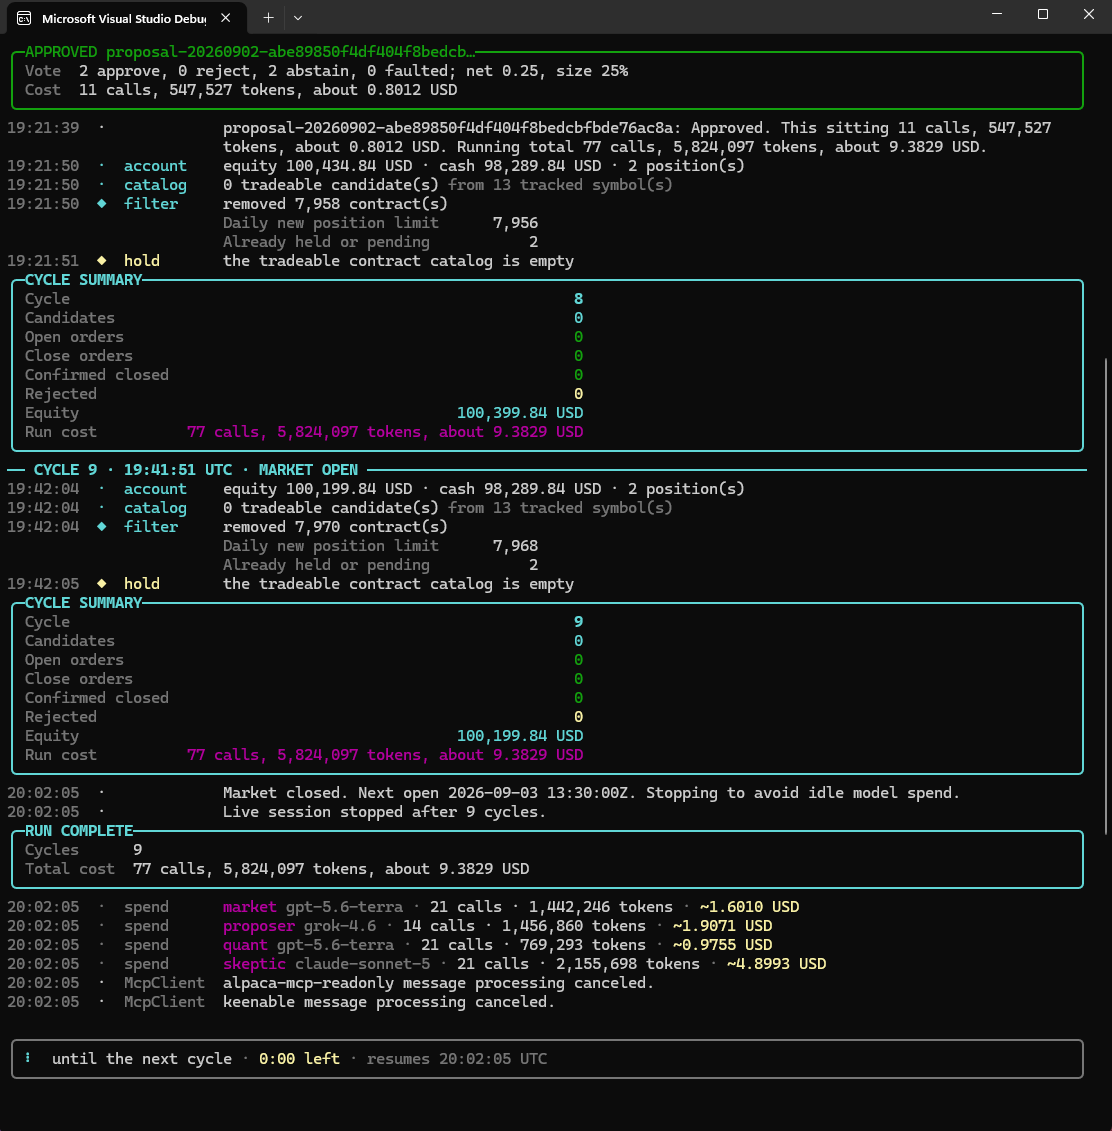
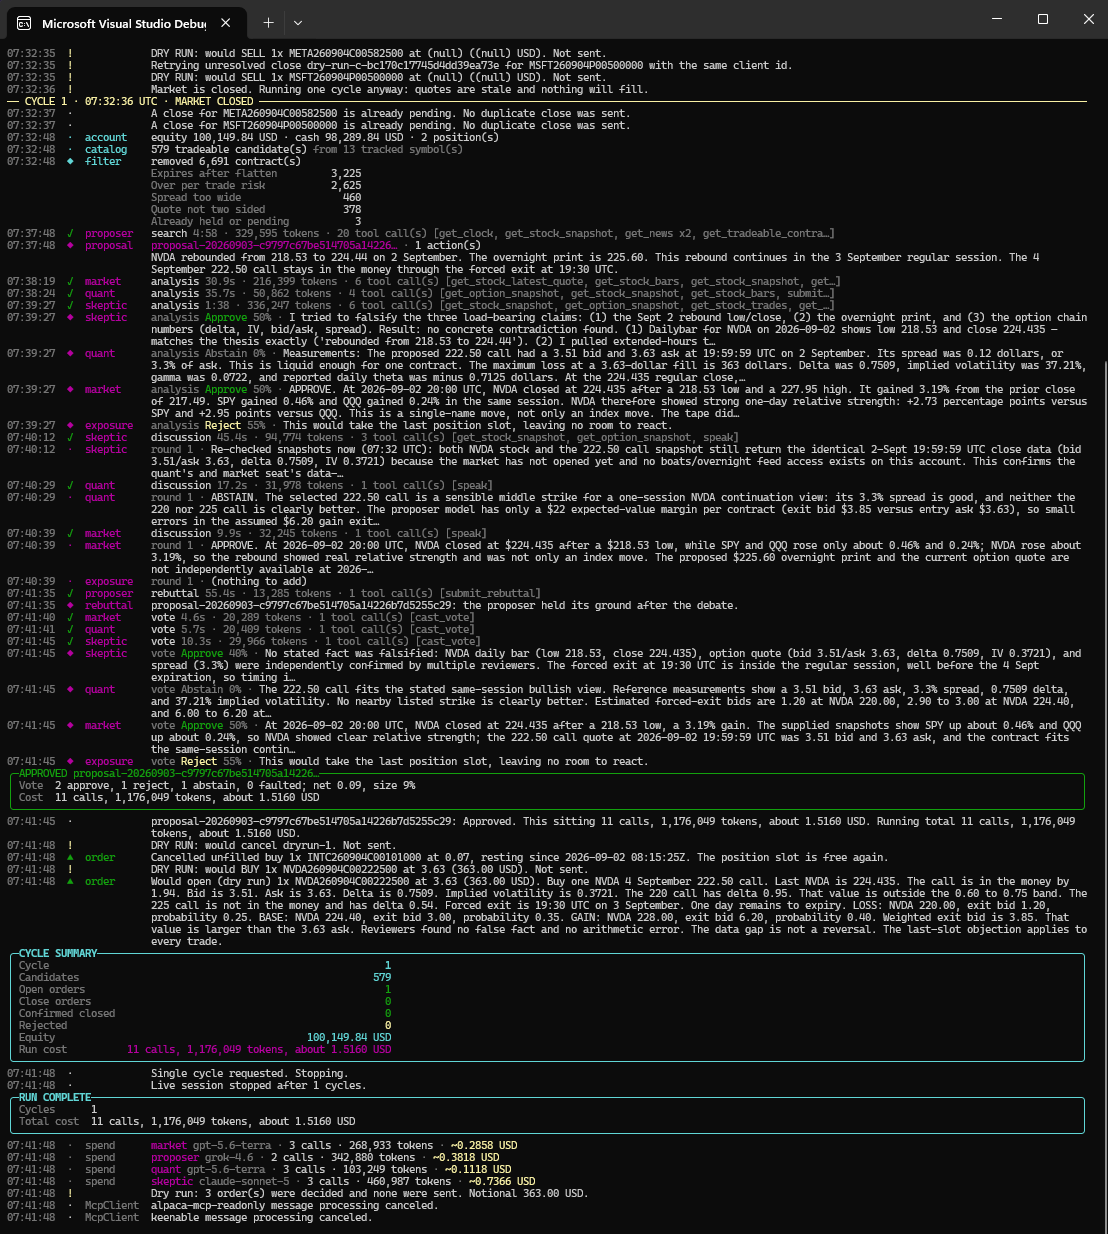
fix: better readme image

diff --git a/.lode/operations/presentation.md b/.lode/operations/presentation.md
@@ -17,9 +17,12 @@ flowchart LR
 
 | File | Purpose |
 |---|---|
-| `index.html` | Eleven-slide deck. One self-contained file, no build step and no local assets. |
-| `video-script.md` | 60-second voiceover script: four beats, cue sheet, recording notes, and a clean full transcript. Half the runtime is one real sitting cut to 30 seconds, start to NO_TRADE. |
-| `third-day-console.png` | Operator console at run complete, cropped to the window. Embedded in the deck as a base64 data URI. |
+| `index.html` | Twelve-slide deck. One self-contained file, no build step and no local assets. |
+| `video-script.md` | Two voiceover scripts with clean transcripts. Script A is the 60-second cut, half of it one real sitting ending in NO_TRADE. Script B is a 3:40 deck walkthrough, one block per slide. A merge section splices them into about 4:09. |
+| `submission.md` | LabLab submission text: a 426-word long description, the short description, and the links. |
+| `export-deck.sh` | Renders `export/slide-01..12.png` (3840x2160) and `export/deck.pdf` (12 pages, 13.333in x 7.5in) with headless Chrome. Re-run after editing the deck. |
+| `room-sitting.png` | One full sitting in the operator console, 2026-09-03 dry run, cropped. Embedded in slide 6 and copied to `docs/console.png` for the README. |
+| `third-day-console.png` | Operator console at run complete, 2026-09-02. Embedded in the result slide. |
 | `third-day.png` | The original uncropped capture. Kept as the source. |
 | `Pavel Osadchuk, resume 2026.pdf` | Source for the author and ask slides. Not embedded. |
 

diff --git a/README.md b/README.md
@@ -21,14 +21,17 @@ submits paper orders. Every sitting, tool call, review pass, vote, decision, and
 SQLite before any money moves.
 
 <p align="center">
-  <img alt="The operator console at the end of a live session" src="docs/console.png" width="820">
+  <img alt="A full war-room sitting in the operator console: the proposer's search, four parallel reviewer analyses, a discussion round, the rebuttal, four private votes, and the approved tally" src="docs/console.png" width="880">
 </p>
 
 <p align="center">
-  <sub>The last two cycles of 2026-09-02 and the run summary. The catalog is empty because the
-  day's fourth open had already filled, so <code>daily-new-position-limit</code> refuses all 7,968
-  contracts and the room can only review what is already open. Per-seat spend is printed at the
-  end of every run.</sub>
+  <sub>One sitting end to end, dry run, 2026-09-03. The proposer searches for 4:58 across 20 tool
+  calls and proposes an NVDA 222.50 call. Four reviewers analyse in parallel and each one's
+  reasoning is on the record: the skeptic tries to falsify three load-bearing claims and finds no
+  contradiction, the quant abstains, and <code>exposure</code> rejects because the trade would take
+  the last position slot. After one discussion round and a rebuttal the room votes 2–1–1, net 0.09,
+  and sizes it at 9%. Being a dry run, the order it would have sent is printed and nothing reaches
+  the broker. 11 model calls, 1,176,049 tokens, 1.5160 USD.</sub>
 </p>
 
 ## The premise
